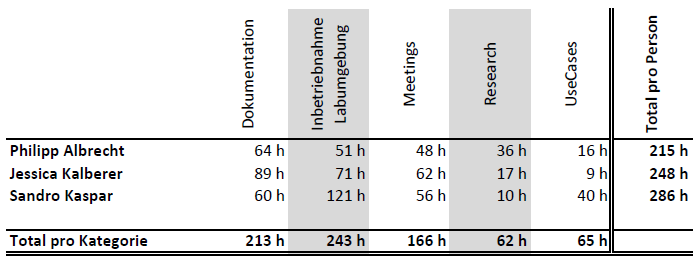
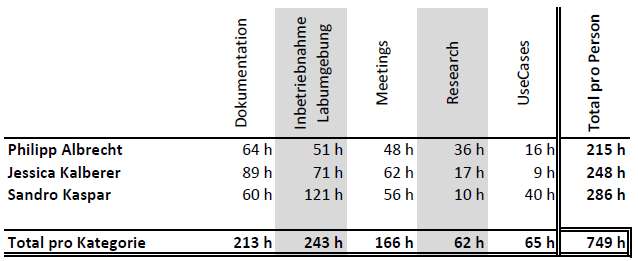
#114

Changed region(s): [[0.0, 0.0307, 1.0, 1.0], [0.8041, 0.1533, 0.8339, 0.4291]]

diff --git a/Documentation/sections/zeitmanagement.tex b/Documentation/sections/zeitmanagement.tex
@@ -3,7 +3,7 @@
 \subsection{Zeitaufwand pro Person und Kategorie}
 \begin{figure}[H]
 	\centering
-	\includegraphics[width=16cm]{img/zeitaufwand/zeitaufwand_pro_person.PNG}
+	\includegraphics[]{img/zeitaufwand/zeitaufwand_pro_person.pdf}
 	\caption{Tabelle zeigt den Zeitaufwand pro Person und Kategorie}	\label{fig:zeitmanagement-person-kategorie}
 \end{figure} 
 
